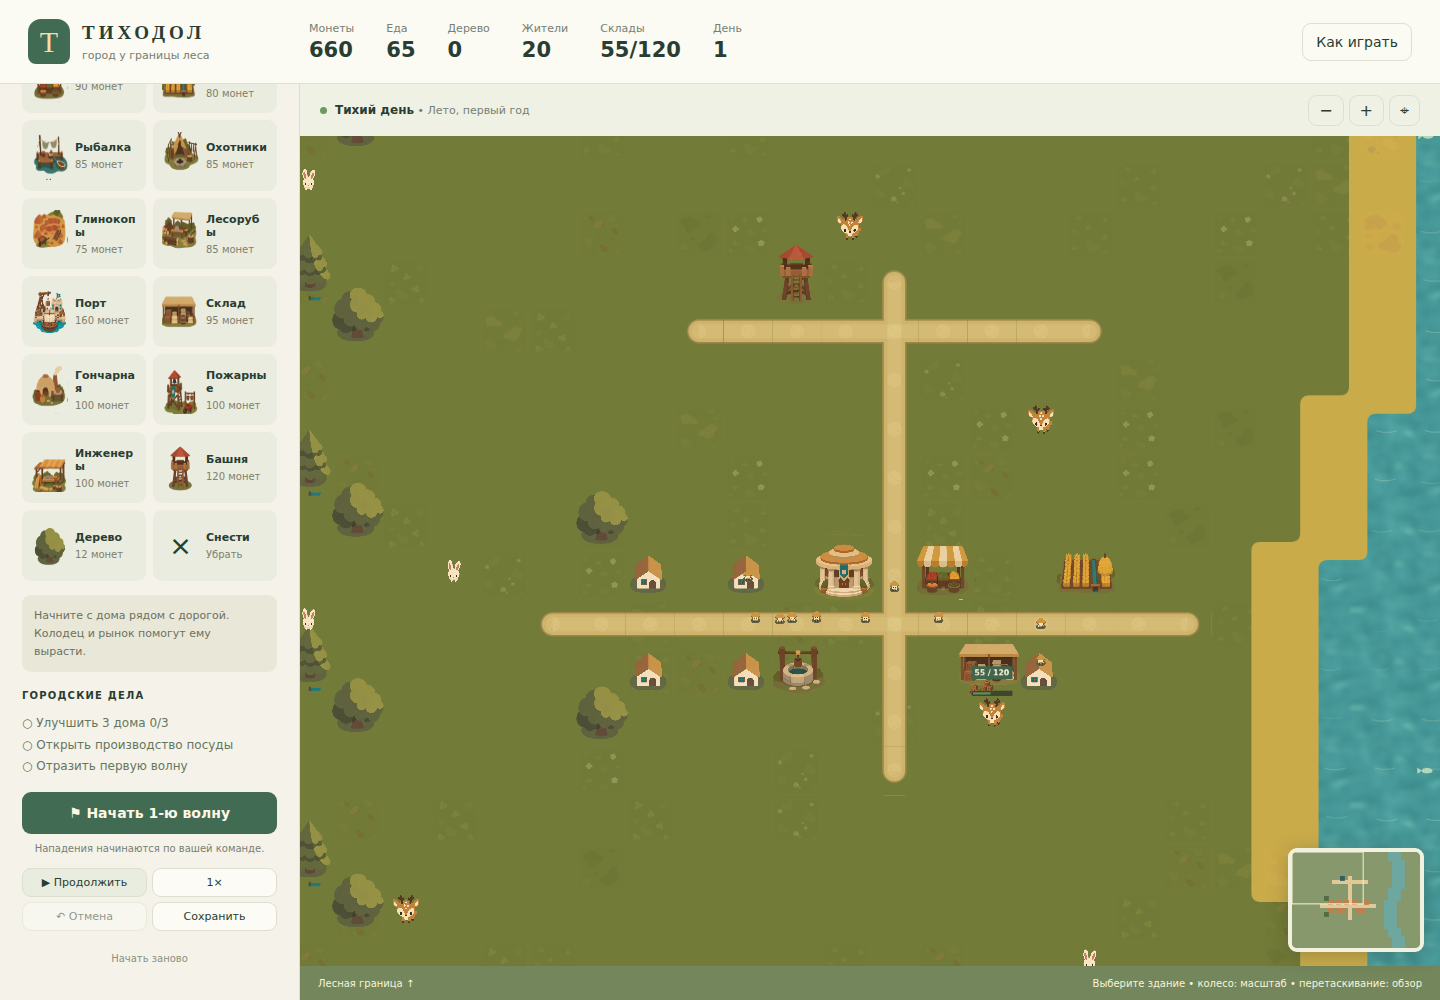
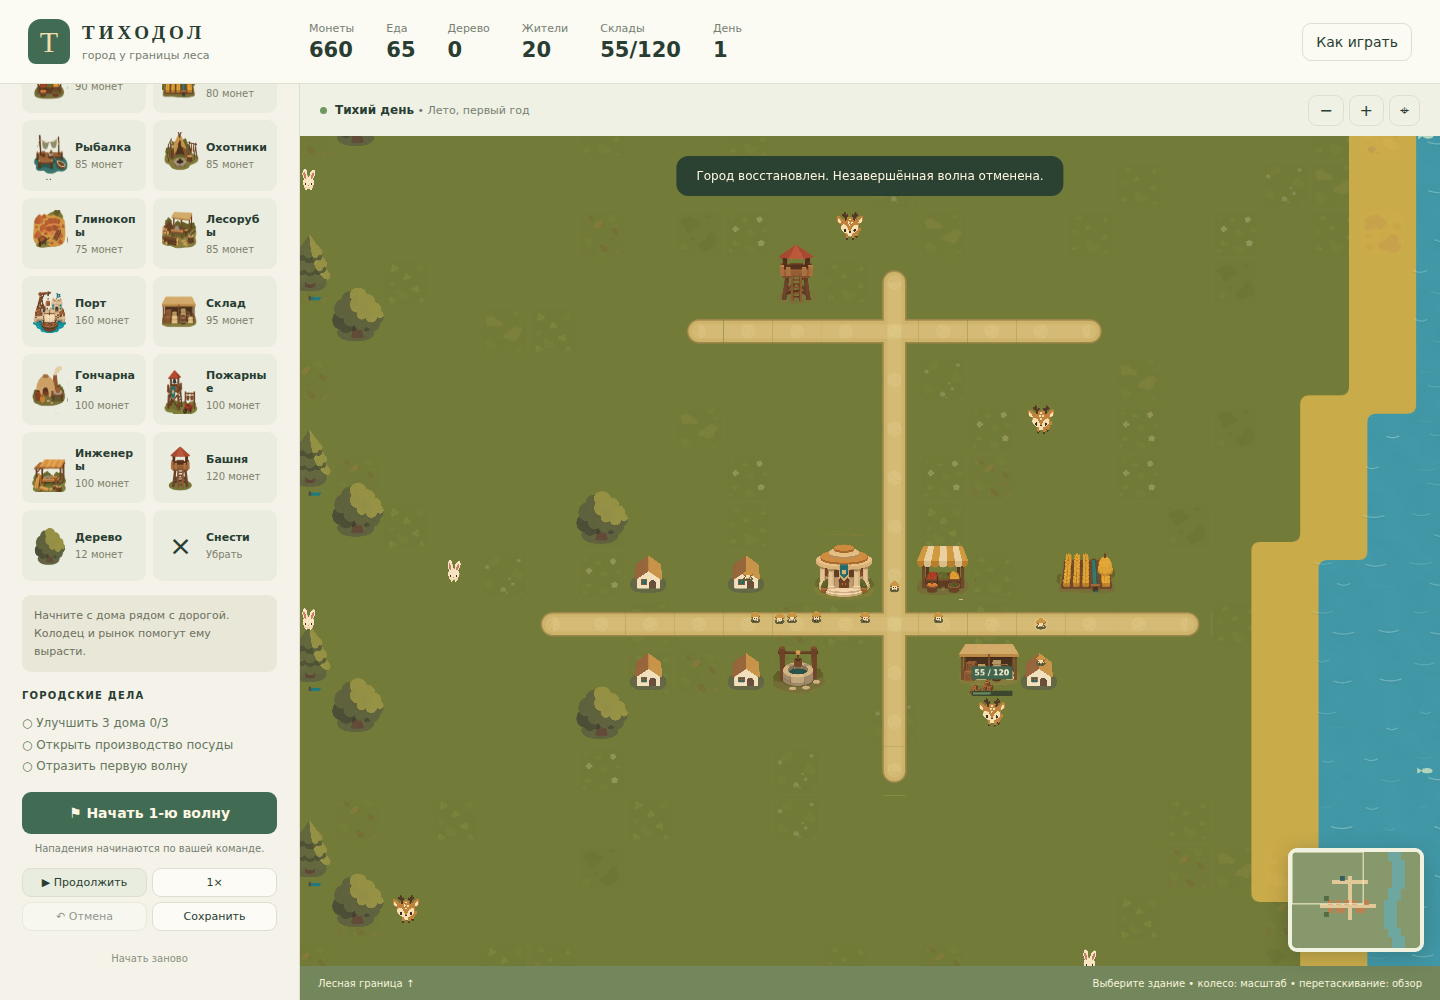
Убрать мутные пятна воды и нарисовать лёгкую движущуюся рябь

Changed region(s): [[0.4688, 0.155, 0.75, 0.217]]

diff --git a/game.js b/game.js
@@ -43,14 +43,14 @@ createTerrain(){const source=this.textures.get('terrain').getSourceImage(),size=
 for(let y=0;y<H;y++)for(let x=0;x<W;x++){const frame=frameAt(x,y);this.groundVariants.add(frame);if(frame>=16)this.plainGroundCount++;if(terrain(x,y)!=='water')this.landTileCount++;draw(frame,x*TILE,y*TILE);if(terrain(x,y)==='water')this.waterTiles.push({x,y,phase:(x*13+y*7)%19});}
 this.createShoreTiles();this.transitionCount=0;for(let y=0;y<H;y++)for(let x=0;x<W;x++){const type=terrain(x,y);if(type!=='water'&&type!=='grass')continue;const same=(nx,ny)=>nx<0||ny<0||nx>=W||ny>=H|| (type==='water'?terrain(nx,ny)==='water':terrain(nx,ny)!=='sand');const offsets=[[0,-1],[1,0],[0,1],[-1,0],[1,-1],[1,1],[-1,1],[-1,-1]];const mask=this.normalizeShoreMask(offsets.reduce((n,[dx,dy],i)=>n+(same(x+dx,y+dy)?1<<i:0),0));if(mask!==255)this.transitionCount++;ctx.drawImage(this.shoreTiles.get(mask),x*TILE,y*TILE);}
 const waterName='water-noise';if(this.textures.exists(waterName))this.textures.remove(waterName);this.waterTexture=this.textures.createCanvas(waterName,64,64);this.waterPixels=this.waterTexture.getContext().createImageData(64,64);this.waterNoiseTick=-1;this.waterSurface=this.add.tileSprite(0,0,W*TILE,H*TILE,waterName).setOrigin(0).setDepth(-1).setTileScale(2,2);this.refreshWaterNoise();texture.refresh();this.terrainLayer=this.add.image(0,0,textureName).setOrigin(0);this.waterFX=this.add.graphics().setDepth(.5);}
-animateWater(){this.refreshWaterNoise();const g=this.waterFX;g.clear();const view=this.cameras.main.worldView;for(const tile of this.waterTiles){const x=tile.x*TILE+32,y=tile.y*TILE+32;if(x<view.x-64||x>view.right+64||y<view.y-64||y>view.bottom+64)continue;const t=(city.time*.22+tile.phase*.17)%1,alpha=Math.sin(t*Math.PI)*.27;g.lineStyle(1.5,0xc2e2c4,alpha);const cx=x+Math.sin(city.time*.6+tile.phase)*6,cy=y+(t-.5)*17;g.beginPath();g.moveTo(cx-13,cy);g.lineTo(cx-5,cy+2);g.lineTo(cx+6,cy+2);g.lineTo(cx+14,cy);g.strokePath();}}
+animateWater(){this.refreshWaterNoise();const g=this.waterFX;g.clear();const view=this.cameras.main.worldView;for(const tile of this.waterTiles){const x=tile.x*TILE,y=tile.y*TILE;if(x<view.x-64||x>view.right+64||y<view.y-64||y>view.bottom+64)continue;for(let j=0;j<2;j++){const phase=tile.phase*1.713+j*2.39,t=(city.time*.12+phase)%1,alpha=Math.sin(t*Math.PI)*(.32+j*.08),cx=x+21+j*20+Math.sin(phase+city.time*.35)*4,cy=y+17+j*24+(t-.5)*9,width=7+(Math.sin(phase*3)+1)*4;for(const [offset,color,strength]of [[2,0x347f8e,.18],[0,0xc6ece0,alpha]]){g.lineStyle(1.5,color,strength*Math.sin(t*Math.PI));g.beginPath();g.moveTo(cx-width,cy+offset);for(let k=1;k<=8;k++){const u=k/8;g.lineTo(cx-width+width*2*u,cy+offset+Math.sin(u*Math.PI)*2.5);}g.strokePath();}}}}
 normalizeShoreMask(mask){for(const [diag,a,b]of [[16,1,2],[32,2,4],[64,4,8],[128,8,1]])if(!(mask&a)||!(mask&b))mask&=~diag;return mask;}
 shorePath(ctx,mask){const n=!!(mask&1),e=!!(mask&2),s=!!(mask&4),w=!!(mask&8),top=n?0:12,right=e?64:52,bottom=s?64:52,left=w?0:12;const radius=(a,b,diag)=>(!a&&!b||a&&b&&!diag)?12:0,ne=radius(n,e,mask&16),se=radius(s,e,mask&32),sw=radius(s,w,mask&64),nw=radius(n,w,mask&128);ctx.beginPath();ctx.moveTo(left+nw,top);ctx.lineTo(right-ne,top);ctx.quadraticCurveTo(n&&e?right-ne:right,n&&e?top+ne:top,right,top+ne);ctx.lineTo(right,bottom-se);ctx.quadraticCurveTo(s&&e?right-se:right,s&&e?bottom-se:bottom,right-se,bottom);ctx.lineTo(left+sw,bottom);ctx.quadraticCurveTo(s&&w?left+sw:left,s&&w?bottom-sw:bottom,left,bottom-sw);ctx.lineTo(left,top+nw);ctx.quadraticCurveTo(n&&w?left+nw:left,n&&w?top+nw:top,left+nw,top);ctx.closePath();}
 createShoreTiles(){this.shoreTiles=new Map();for(let mask=0;mask<256;mask++){const canonical=this.normalizeShoreMask(mask);if(this.shoreTiles.has(canonical))continue;const tile=document.createElement('canvas');tile.width=tile.height=64;const ctx=tile.getContext('2d');ctx.fillStyle='#c9ab4a';ctx.fillRect(0,0,64,64);ctx.globalCompositeOperation='destination-out';this.shorePath(ctx,canonical);ctx.fill();this.shoreTiles.set(canonical,tile);}}
 createPalisadeTiles(){const name='palisade-tiles';if(this.textures.exists(name))this.textures.remove(name);const texture=this.textures.createCanvas(name,256,384),ctx=texture.getContext(),post=this.textures.get('palisade').getSourceImage();for(let mask=0;mask<16;mask++){ctx.save();ctx.translate(mask%4*64,Math.floor(mask/4)*96);ctx.beginPath();ctx.rect(0,0,64,96);ctx.clip();const points=[[32,64]];ctx.strokeStyle='#684c2e';ctx.lineWidth=4;for(const [bit,dx,dy]of [[1,0,-1],[2,1,0],[4,0,1],[8,-1,0]])if(mask&bit){for(const offset of [8,14]){ctx.beginPath();ctx.moveTo(32,64-offset);ctx.lineTo(32+dx*32,64+dy*32-offset);ctx.stroke();}for(const d of [8,16,24,32])points.push([32+dx*d,64+dy*d]);}points.sort((a,b)=>a[1]-b[1]||a[0]-b[0]);for(const [x,y]of points)ctx.drawImage(post,x-15,y-37,30,40);ctx.restore();texture.add('wall'+mask,0,mask%4*64,Math.floor(mask/4)*96,64,96);}if(this.textures.exists('gate-tiles'))this.textures.remove('gate-tiles');const gate=this.textures.createCanvas('gate-tiles',64,96),g=gate.getContext();g.strokeStyle='#795632';g.lineWidth=7;g.beginPath();g.moveTo(9,29);g.lineTo(55,29);g.stroke();for(const x of [9,55])g.drawImage(post,x-15,27,30,40);gate.add('gate',0,0,0,64,96);gate.refresh();texture.refresh();}
 createRoadTiles(){const name='road-tiles';if(this.textures.exists(name))this.textures.remove(name);const texture=this.textures.createCanvas(name,512,128),ctx=texture.getContext();for(let mask=0;mask<16;mask++){ctx.save();ctx.translate(mask%8*64,Math.floor(mask/8)*64);ctx.beginPath();ctx.rect(0,0,64,64);ctx.clip();const path=width=>{ctx.lineWidth=width;ctx.lineCap='butt';ctx.beginPath();ctx.arc(32,32,width/2,0,Math.PI*2);ctx.fill();for(const [bit,dx,dy]of [[1,0,-1],[2,1,0],[4,0,1],[8,-1,0]])if(mask&bit){ctx.beginPath();ctx.moveTo(32,32);ctx.lineTo(32+dx*34,32+dy*34);ctx.stroke();}};ctx.fillStyle=ctx.strokeStyle='#9f874b';path(32);ctx.fillStyle=ctx.strokeStyle='#ceb36a';path(28);ctx.fillStyle=ctx.strokeStyle='rgba(235,213,155,.22)';path(19);ctx.fillStyle='rgba(111,93,51,.15)';for(const [x,y]of [[27,29],[36,35],[30,38]])ctx.fillRect(x,y,2,1);ctx.restore();texture.add('road'+mask,0,mask%8*64,Math.floor(mask/8)*64,64,64);}texture.refresh();this.roadTileCount=16;}
 waterNoise(x,y,z,period=4){const xi=Math.floor(x),yi=Math.floor(y),zi=Math.floor(z),xf=x-xi,yf=y-yi,zf=z-zi,fade=t=>t*t*t*(t*(t*6-15)+10),lerp=(a,b,t)=>a+(b-a)*t;const gradient=(ix,iy,iz,dx,dy,dz)=>{ix=((ix%period)+period)%period;iy=((iy%period)+period)%period;let h=Math.imul(ix+17,374761393)^Math.imul(iy+31,668265263)^Math.imul(iz+47,1274126177);h=Math.imul(h^(h>>>13),1274126177);h=(h^(h>>>16))&15;const u=h<8?dx:dy,v=h<4?dy:h===12||h===14?dx:dz;return ((h&1)?-u:u)+((h&2)?-v:v);};const corner=(a,b,c)=>gradient(xi+a,yi+b,zi+c,xf-a,yf-b,zf-c),u=fade(xf),v=fade(yf),w=fade(zf);return lerp(lerp(lerp(corner(0,0,0),corner(1,0,0),u),lerp(corner(0,1,0),corner(1,1,0),u),v),lerp(lerp(corner(0,0,1),corner(1,0,1),u),lerp(corner(0,1,1),corner(1,1,1),u),v),w);}
-refreshWaterNoise(){const tick=Math.floor(city.time*12);if(this.waterNoiseTick===tick)return;this.waterNoiseTick=tick;const started=performance.now(),data=this.waterPixels.data,z=tick/12*.18;for(let y=0;y<64;y++)for(let x=0;x<64;x++){const t=tick/12,u=x/16+t*.13,v=y/16+t*.07,n=this.waterNoise(u,v,z),detail=this.waterNoise(x/8-t*.09,y/8+t*.16,z*.75,8),slope=(this.waterNoise(u,v+.08,z)-n)*8,light=Math.pow(Math.max(0,slope),3)*26,i=(y*64+x)*4;data[i]=70+n*8+detail*8+light;data[i+1]=151+n*10+detail*11+light;data[i+2]=151+n*9+detail*9+light*.7;data[i+3]=255;}this.waterTexture.getContext().putImageData(this.waterPixels,0,0);this.waterTexture.refresh();this.waterSurface.dirty=true;this.waterSurface.updateTileTexture();this.waterNoiseComputeMs=performance.now()-started;}
+refreshWaterNoise(){const tick=Math.floor(city.time*12);if(this.waterNoiseTick===tick)return;this.waterNoiseTick=tick;const started=performance.now(),data=this.waterPixels.data,z=tick/12*.18;for(let y=0;y<64;y++)for(let x=0;x<64;x++){const n=this.waterNoise(x/16+tick/12*.06,y/16,tick/12*.08),i=(y*64+x)*4;data[i]=65+n*2;data[i+1]=151+n*2;data[i+2]=166+n*2;data[i+3]=255;}this.waterTexture.getContext().putImageData(this.waterPixels,0,0);this.waterTexture.refresh();this.waterSurface.dirty=true;this.waterSurface.updateTileTexture();this.waterNoiseComputeMs=performance.now()-started;}
 resetGesture(clearPointers=false){city.endUndoGroup();this.down=null;this.pinch=null;this.pinchBlocked=false;this.moved=false;this.lastPaint='';this.hover?.clear();this.ghost?.setVisible(false);if(clearPointers)for(const p of this.input.manager.pointers)if(p.wasTouch){p.isDown=false;p.primaryDown=false;p.active=false;p.buttons=0;}}
 touchPointers(){return this.input.manager.pointers.filter(p=>p.isDown&&p.wasTouch&&(!this.nativeTouches||this.nativeTouches.has(p.identifier)));}
 beginPinch(touches){city.endUndoGroup();const[a,b]=touches,cam=this.cameras.main,mx=(a.x+b.x)/2,my=(a.y+b.y)/2;this.pinch={distance:Math.max(1,Math.hypot(a.x-b.x,a.y-b.y)),zoom:cam.zoom,anchor:cam.getWorldPoint(mx,my)};this.pinchBlocked=true;this.down=null;this.moved=true;this.hover.clear();this.ghost.setVisible(false);}

diff --git a/docs/water-noise.md b/docs/water-noise.md
@@ -4,3 +4,5 @@
 https://github.com/mrdoob/three.js/blob/dev/examples/jsm/objects/Water.js
 
 В нашем Canvas/Phaser варианте периодический Perlin смешивается в двух масштабах со встречным сдвигом. Разница соседних высот по Y задаёт слабые блики. Текстура 64×64 масштабируется вдвое (раньше в восемь раз); обновляется 12 раз в игровую секунду, останавливается на паузе. TileSprite обновляется явно через updateTileTexture, иначе Canvas Phaser оставлял пустую воду.
+
+12.10: убрано освещение шума, создававшее мутные облачные пятна. Основа почти однородная сине-бирюзовая, Perlin меняет яркость всего на ±2. Поверх рисуются короткие дуги ряби с разными фазами, длинами, плавным появлением и движением. Для читаемости каждой дуги добавлена слабая тень.
